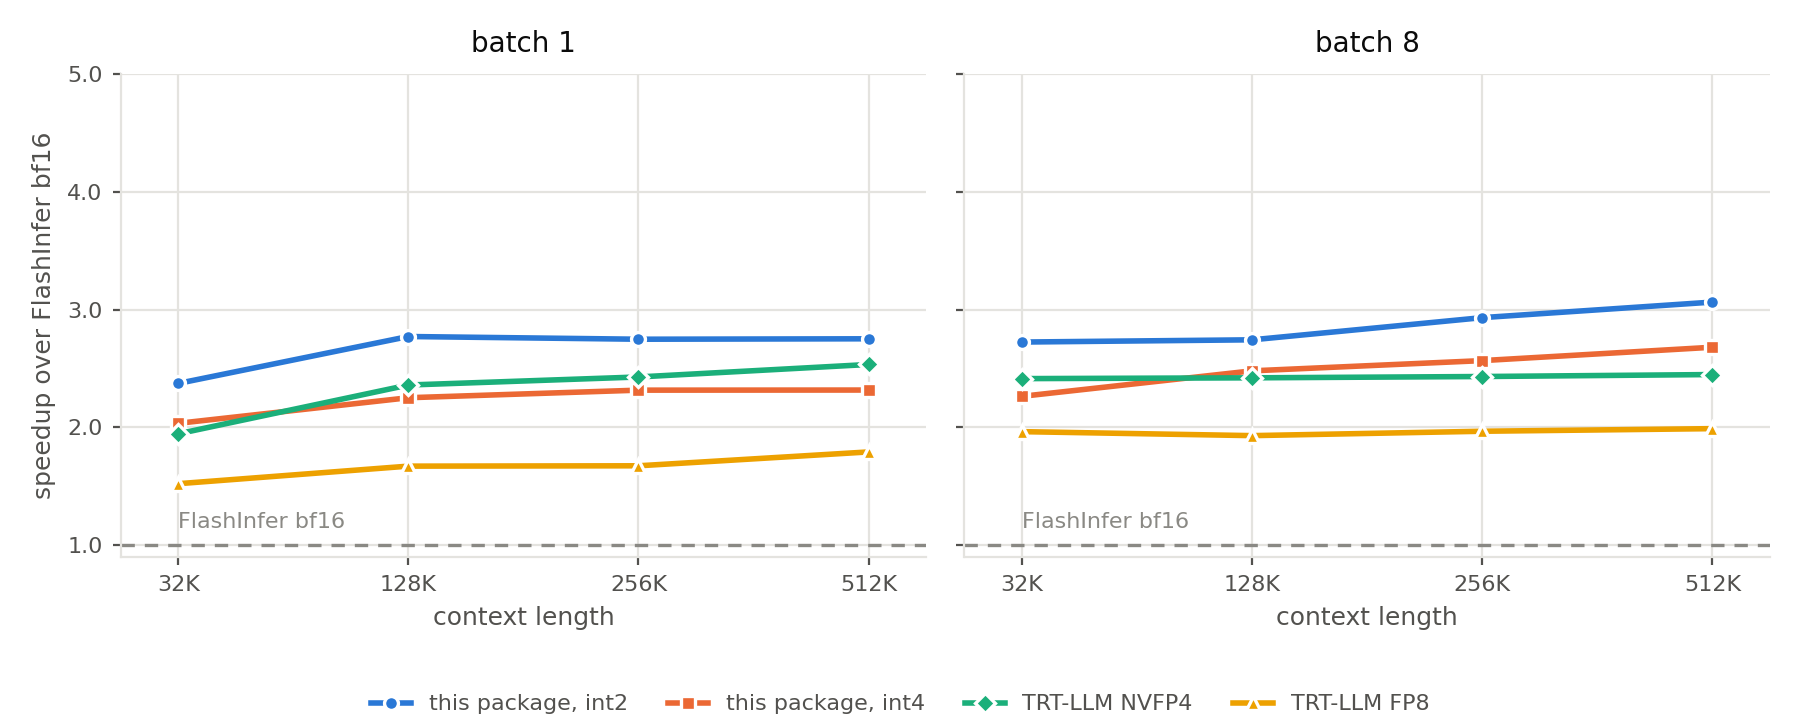
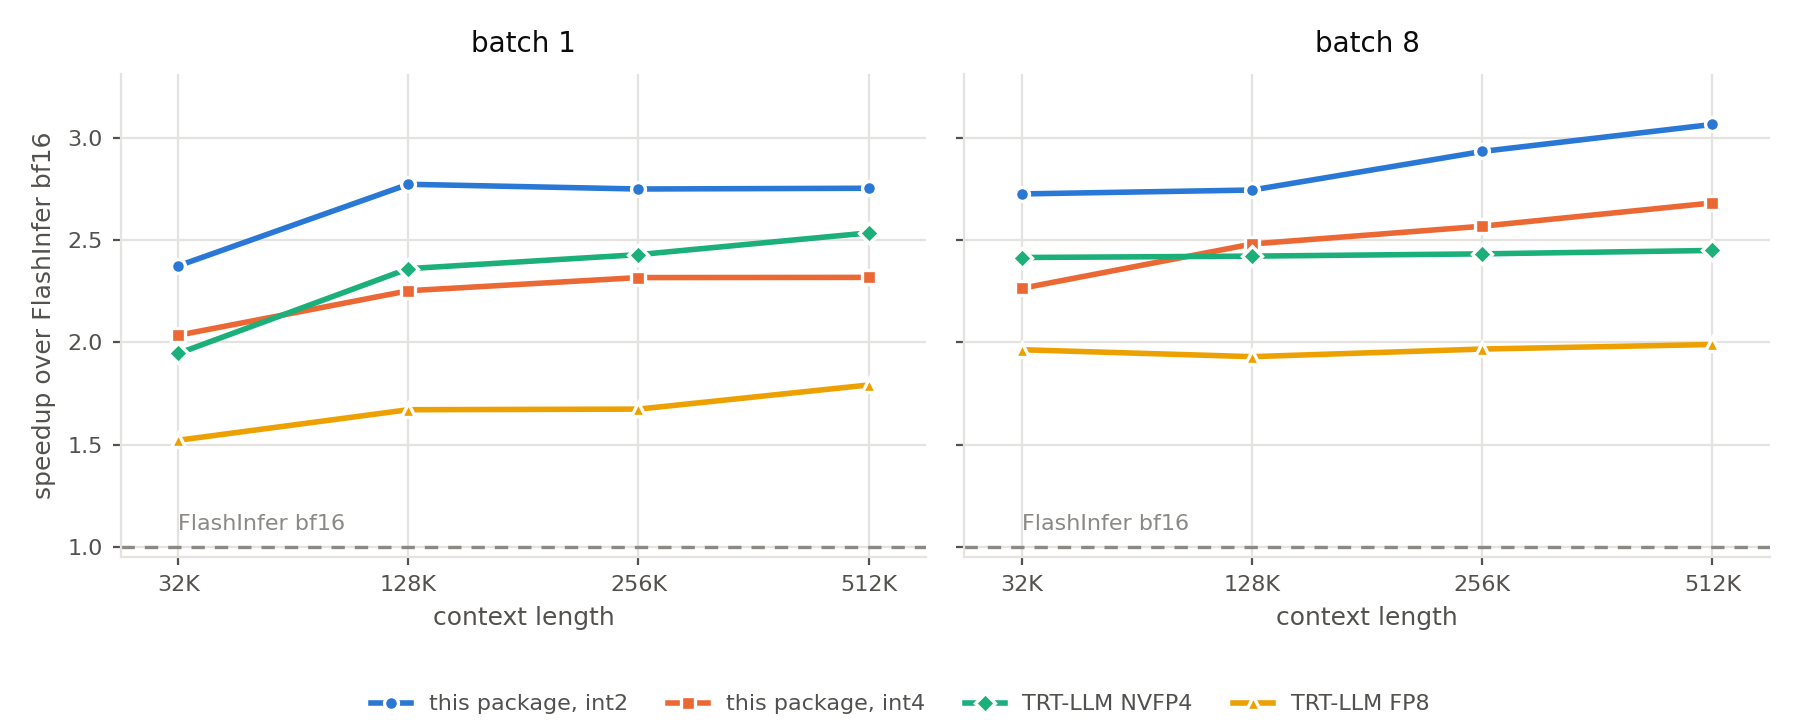
Fit the benchmark axes to the data
The y axis was fixed at 1.0 to 5.0, so the B200 panels spent a third of their
height on empty space above the highest point. The top is now the highest series
value plus a little headroom, with the bf16 reference at 1.00 always in view, and
the ticks come from the data range.

diff --git a/benchmarks/plot_decode.py b/benchmarks/plot_decode.py
@@ -17,6 +17,7 @@ import matplotlib
 
 matplotlib.use("Agg")
 import matplotlib.pyplot as plt
+from matplotlib.ticker import FormatStrFormatter, MaxNLocator
 
 HERE = pathlib.Path(__file__).resolve().parent
 DOCS = HERE.parent / "docs"
@@ -54,6 +55,7 @@ def render(gpu, out):
 
     fig, axes = plt.subplots(1, 2, figsize=(9.0, 3.6), sharey=True)
     fig.patch.set_facecolor("#ffffff")
+    top = 1.0
 
     for ax, batch in zip(axes, batches):
         ax.set_facecolor("#ffffff")
@@ -68,6 +70,8 @@ def render(gpu, out):
             ax.plot(xs, ys, color=color, linewidth=2, marker=marker, markersize=5,
                     markeredgecolor="#ffffff", markeredgewidth=1.2, label=label,
                     zorder=3)
+            if ys:
+                top = max(top, max(ys))
 
         ax.axhline(1.0, color=REF, linewidth=1.2, linestyle=(0, (4, 3)), zorder=2)
         ax.annotate("FlashInfer bf16", xy=(0, 1.0), xytext=(0, 6),
@@ -76,8 +80,6 @@ def render(gpu, out):
         ax.set_xticks(range(len(kv_lens)))
         ax.set_xticklabels([f"{kv // 1024}K" for kv in kv_lens])
         ax.set_xlim(-0.25, len(kv_lens) - 0.75)
-        ax.set_yticks([1.0, 2.0, 3.0, 4.0, 5.0])
-        ax.set_yticklabels(["1.0", "2.0", "3.0", "4.0", "5.0"])
         ax.minorticks_off()
         ax.set_xlabel("context length", color=INK_2, fontsize=9)
         ax.set_title(f"batch {batch}", color=INK, fontsize=10, pad=8)
@@ -88,6 +90,11 @@ def render(gpu, out):
             ax.spines[side].set_color(GRID)
         ax.tick_params(colors=INK_2, labelsize=8, length=3, width=0.8)
 
+    # Fit the axis to the data: the bf16 reference at 1.00 always stays in view, and
+    # the top is the highest point plus a little headroom rather than a fixed 5.0.
+    axes[0].set_ylim(0.95, top * 1.08)
+    axes[0].yaxis.set_major_locator(MaxNLocator(nbins=5, steps=[1, 2, 2.5, 5, 10]))
+    axes[0].yaxis.set_major_formatter(FormatStrFormatter("%.1f"))
     axes[0].set_ylabel("speedup over FlashInfer bf16", color=INK_2, fontsize=9)
 
     handles, labels = axes[0].get_legend_handles_labels()
